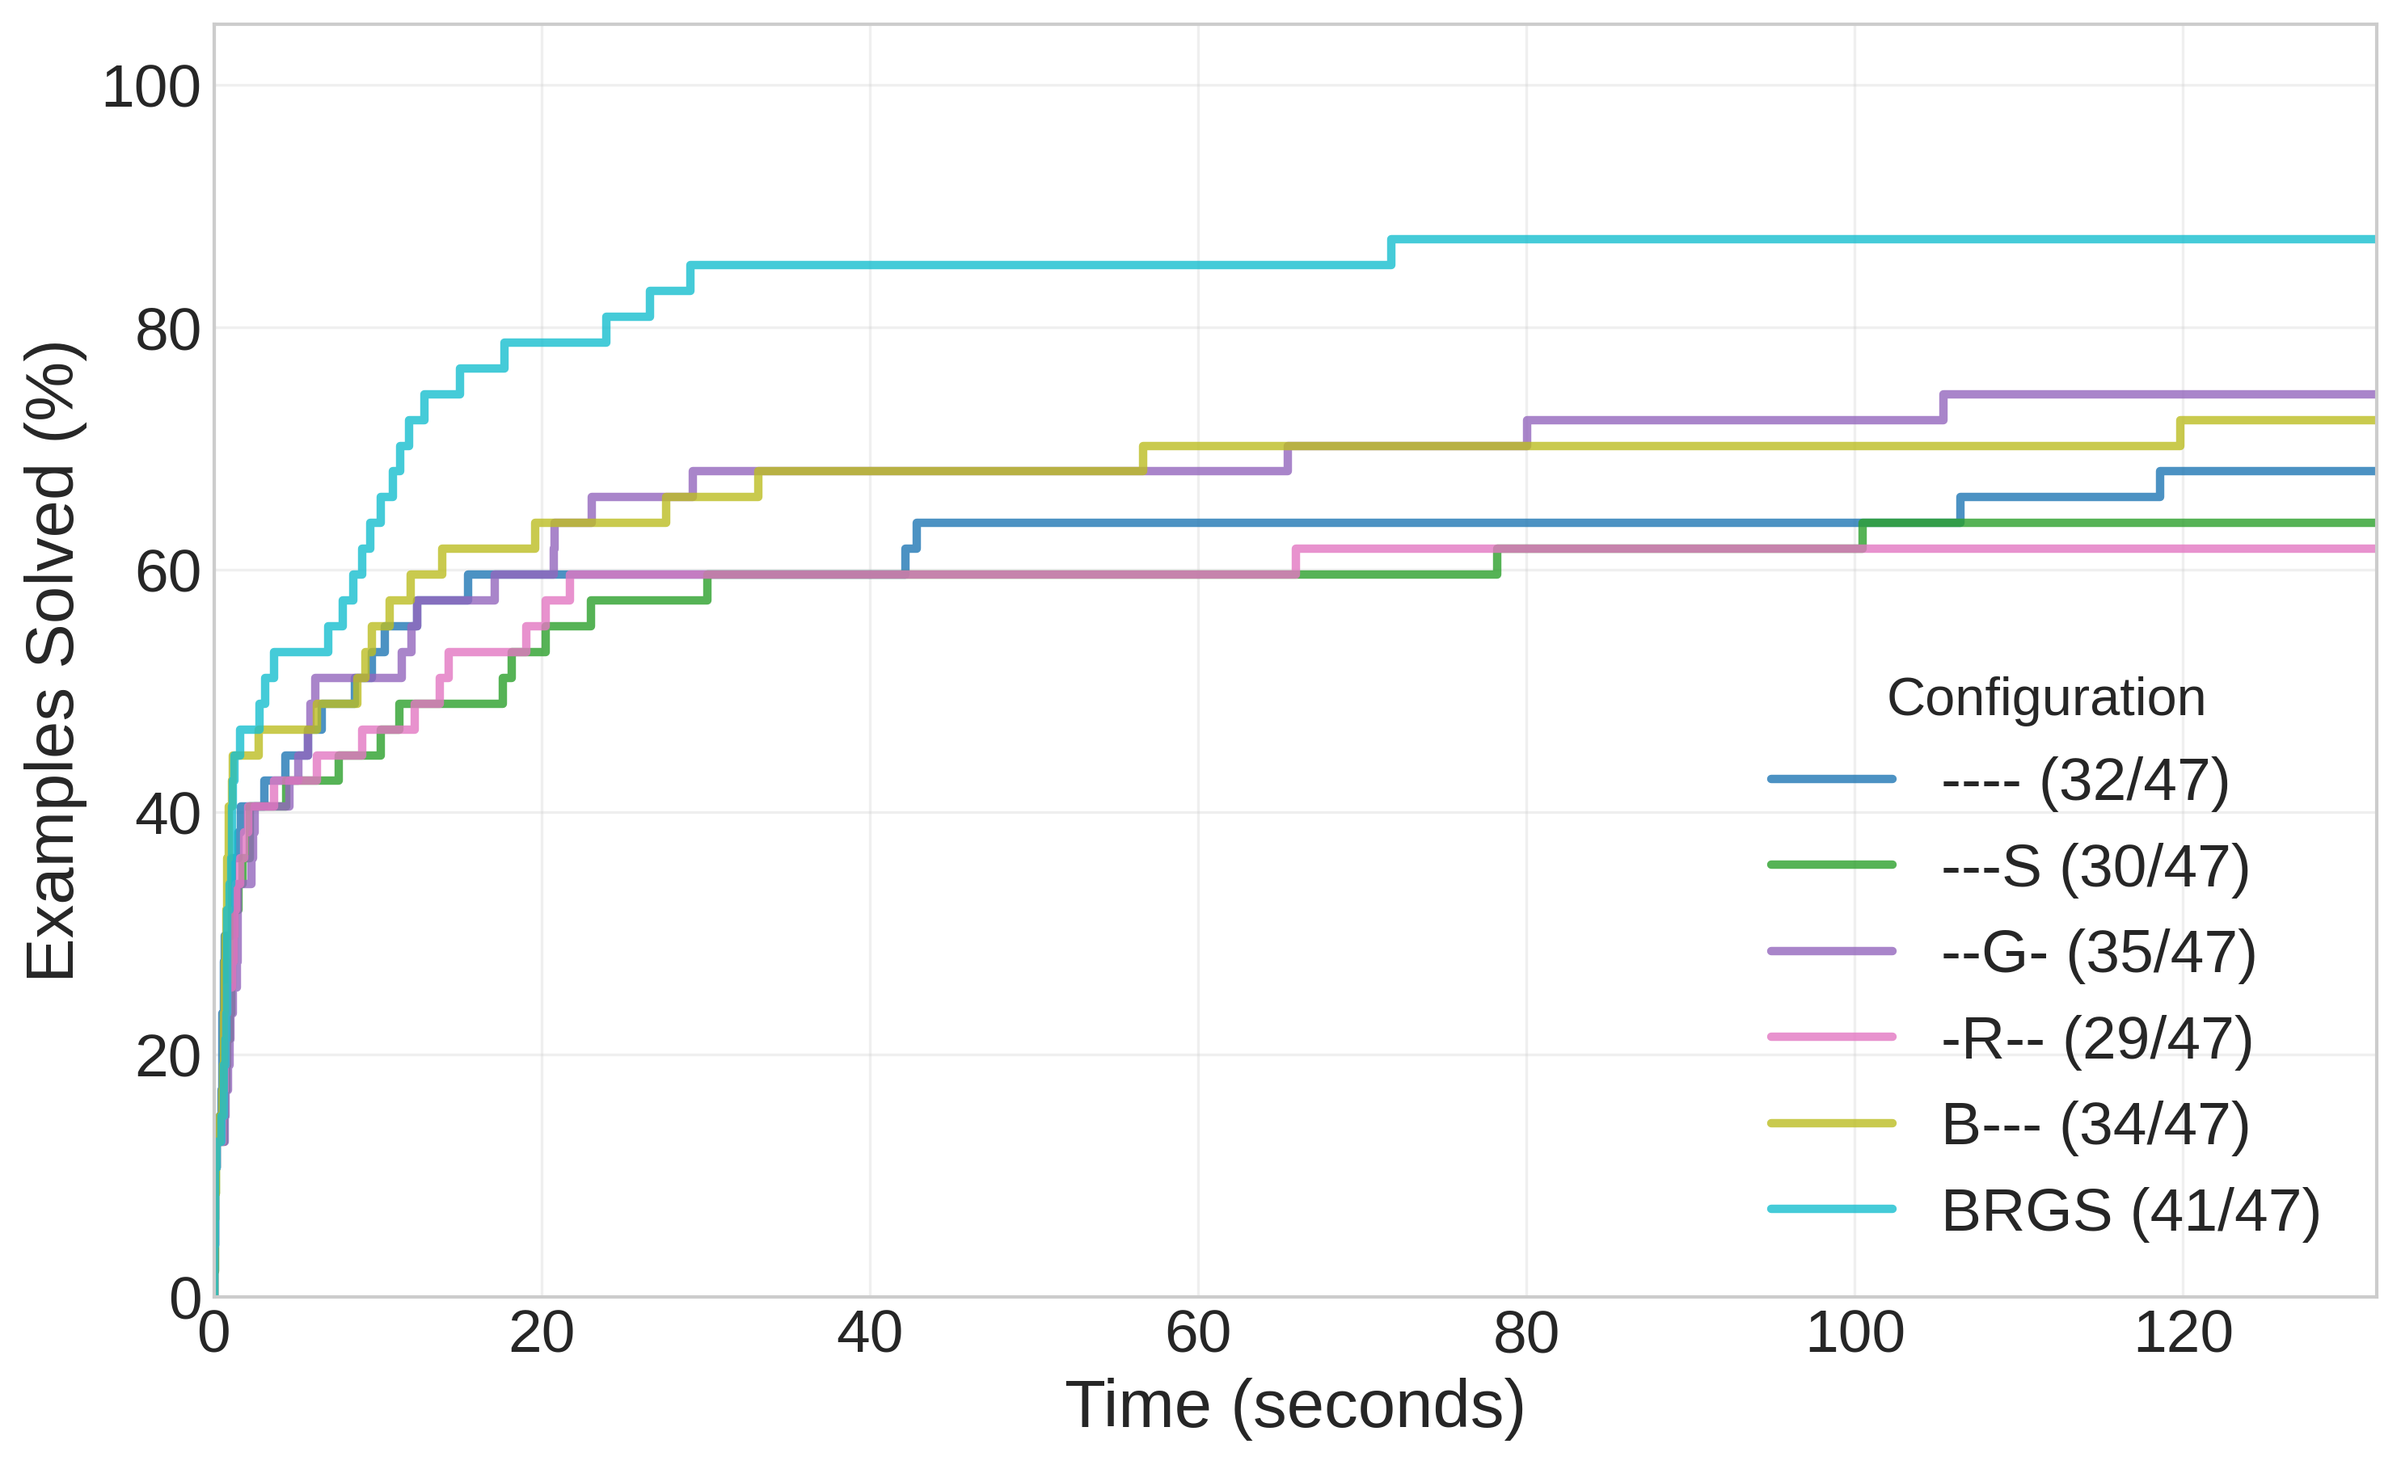
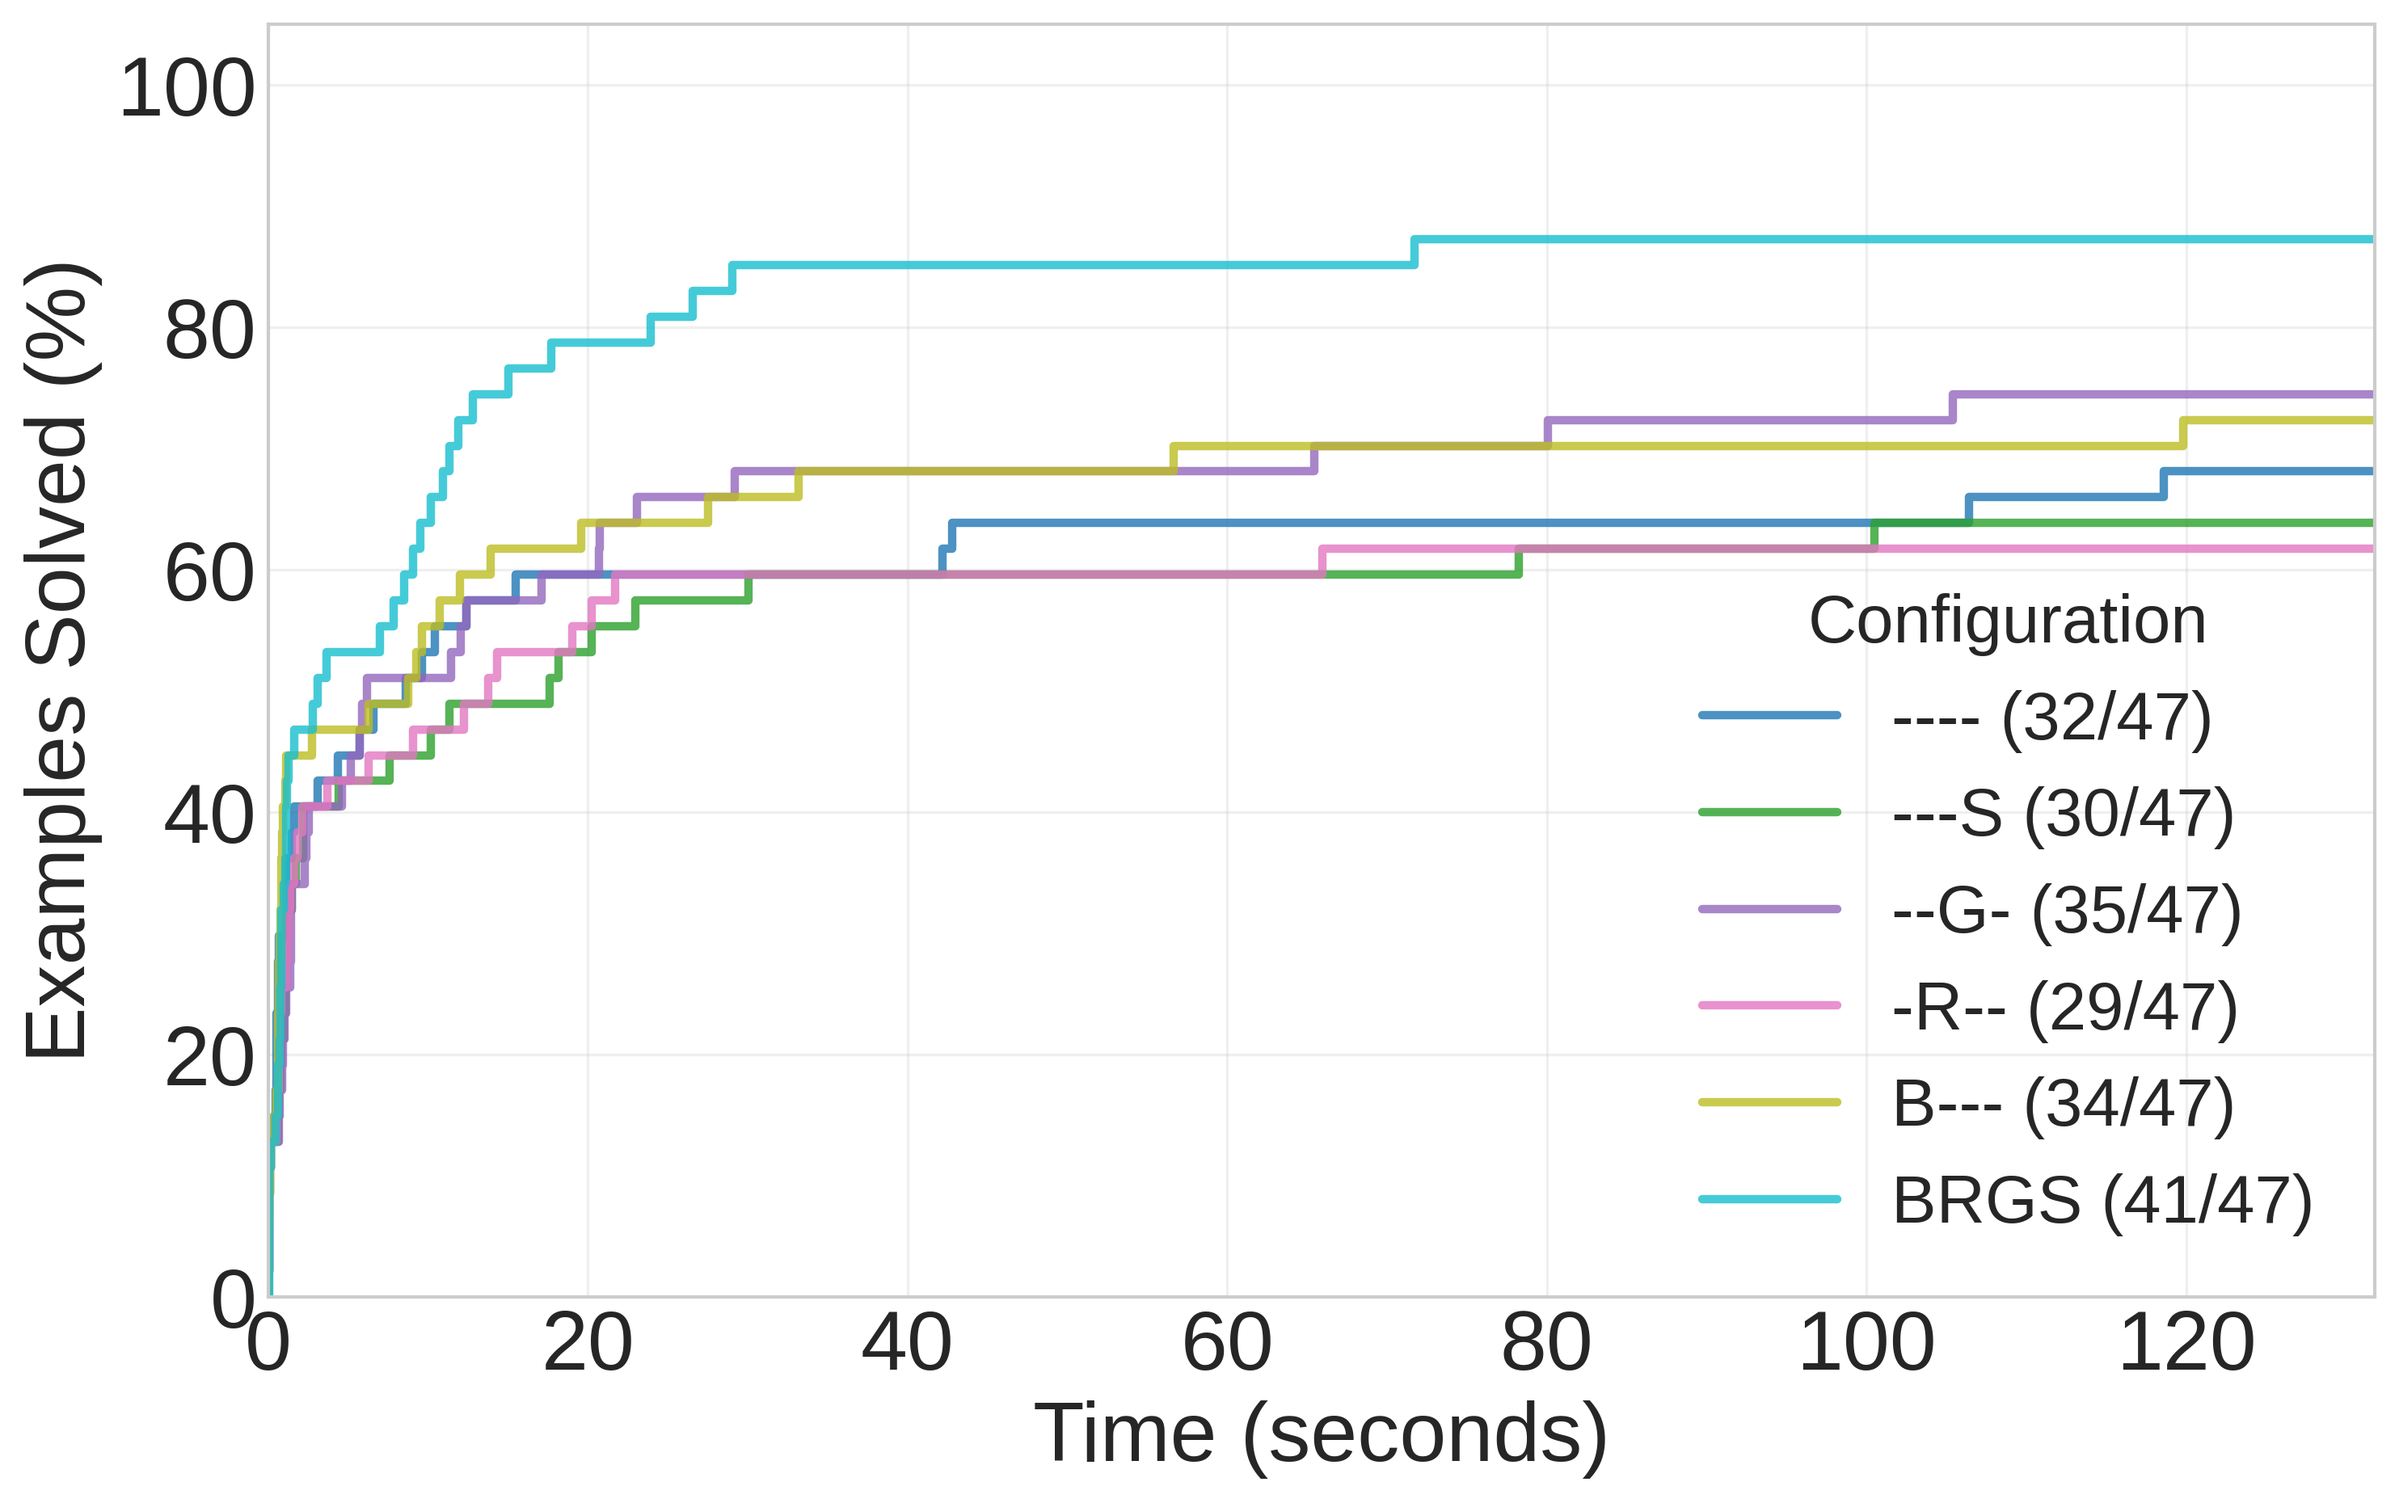
make ticks larger for the cactus plot

diff --git a/scripts/render_stats.py b/scripts/render_stats.py
@@ -388,8 +388,8 @@ def generate_cactus_plot(stats: List[Dict[str, Any]], output_dir: str) -> None:
                     color=colors[idx % len(colors)], marker='o', markersize=4, alpha=0.8)
 
     # Set up axes
-    ax.set_xlabel('Time (seconds)', fontsize=20)
-    ax.set_ylabel('Examples Solved (%)', fontsize=20)
+    ax.set_xlabel('Time (seconds)', fontsize=25)
+    ax.set_ylabel('Examples Solved (%)', fontsize=25)
     # ax.set_title('Cactus Plot: Optimization Configuration Performance', fontsize=16, pad=20)
 
     # Set x-axis to linear scale with dynamic upper limit
@@ -397,14 +397,14 @@ def generate_cactus_plot(stats: List[Dict[str, Any]], output_dir: str) -> None:
     ax.set_ylim(0, 105)
 
 
-    plt.xticks(fontsize=18)
-    plt.yticks(fontsize=18)
+    plt.xticks(fontsize=25)
+    plt.yticks(fontsize=25)
 
     # Add grid
     ax.grid(True, which='both', alpha=0.3)
 
     # Add legend
-    ax.legend(loc='lower right', title='Configuration', fontsize=18, title_fontsize=16)
+    ax.legend(loc='lower right', title='Configuration', fontsize=20, title_fontsize=20)
 
     # Add a note about the configuration labels
     # note_text = 'B=Bidirectional, R=Remove Redundant, G=Generate Less, S=Smart Kleene'
